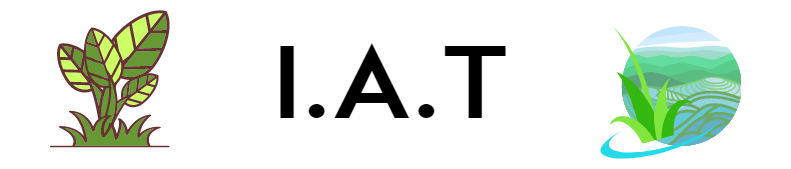
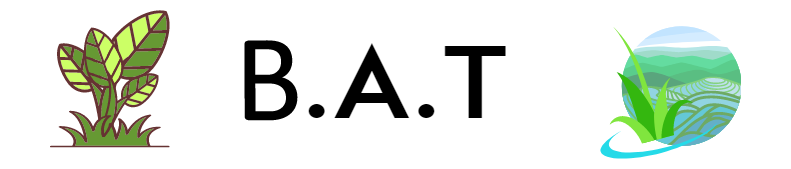
changed the IAT to BAT on course and edited the file for the course image of BAT

Changed region(s): [[0.3034, 0.2367, 0.3944, 0.7396]]

diff --git a/navtop.html b/navtop.html
@@ -51,7 +51,7 @@
                 <li class="nav-item dropdown">
                     <a class="nav-link dropdown-toggle" id="navbarDropdown" href="#" role="button" data-bs-toggle="dropdown" aria-haspopup="true" aria-expanded="false">   <b>IAT</b>  </a>
                     <div class="dropdown-menu dropdown-menu-end" aria-labelledby="navbarDropdown">
-                        <a class="dropdown-item" href="#bsIAT">BAI</a>
+                        <a class="dropdown-item" href="#bsIAT">BAT</a>
                      
                     </div>
                 </li>
